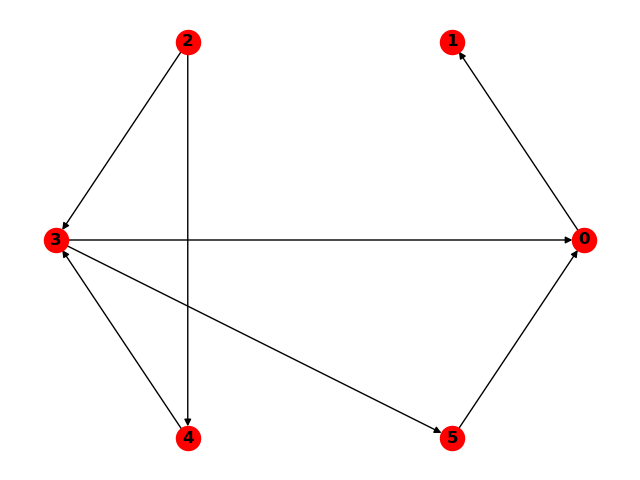
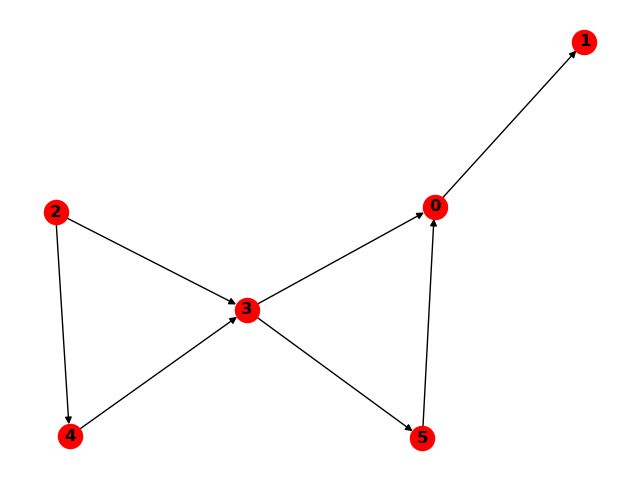
yayy

diff --git a/code/dynamics/simulation.py b/code/dynamics/simulation.py
@@ -156,7 +156,7 @@ for i in range(len(init_cond.items())):
 for ic,value in init_cond.items():
     setattr(G,ic,[value for _ in range(N)])
 
-setattr(G,'z',[1.7+(_*0.1) for _ in range(N)])        # for slightly different init cond
+setattr(G,'z',[1.7+(_*0.1) for _ in range(N)])            # for slightly different init cond
 # setattr(G,'z',[1.7 for _ in range(N)])                  # for uniform init cond
 
 start_time = TIME.time()
@@ -259,5 +259,6 @@ if(savesim == 'y'):
 # wut...
 
 showgraph = plt.figure()
-nx.draw_shell(G, with_labels=True, font_weight='bold')
+nx.draw_kamada_kawai(G, with_labels=True, font_weight='bold')
+# nx.draw_shell(G, with_labels=True, font_weight='bold')
 plt.show()

diff --git a/code/dynamics/drawgraph.py b/code/dynamics/drawgraph.py
@@ -16,11 +16,8 @@ for ri in range(len(a[0])):
             G.add_edge(ri,ci)
 
 
-options = {
-    'node_color': 'red',
-    'width': 2,
-}
 
-nx.draw_shell(G, with_labels=True, font_weight='bold', **options)
+nx.draw_kamada_kawai(G, with_labels=True, font_weight='bold')
+# nx.draw_shell(G, with_labels=True, font_weight='bold')
 # nx.draw_kamada_kawai(G, with_labels=True)
 plt.show()
